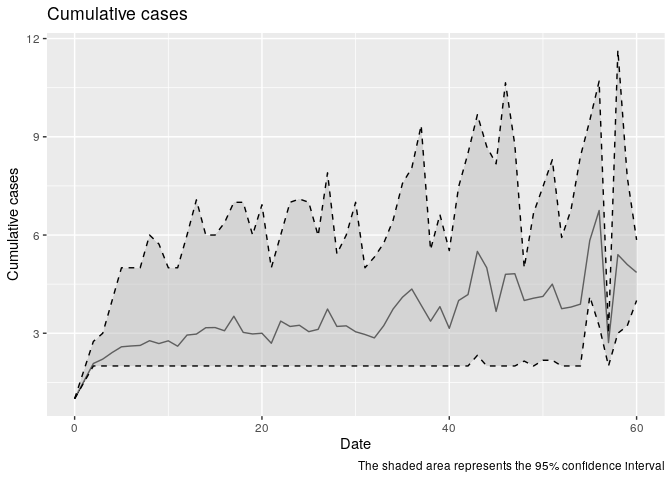
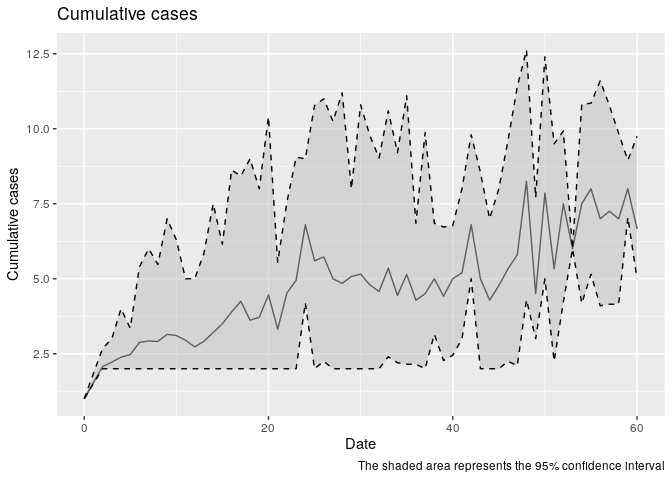
Seems to be working now. Need to check with all the other models.

diff --git a/school_quarantine/school_quarantine.hpp b/school_quarantine/school_quarantine.hpp
@@ -540,7 +540,7 @@ inline ModelSchoolQuarantine::ModelSchoolQuarantine(
     model.add_state("Quarantined Exposed", update_quarantined_exposed);
     model.add_state("Quarantined Susceptible", update_quarantined_susceptible);
     model.add_state("Quarantined Infectious", update_quanrantined_prodromal);
-    model.add_state("Quarantined Recovered", update_quarantined_exposed);
+    model.add_state("Quarantined Recovered", update_quarantined_recovered);
     model.add_state("Hospitalized", update_hospitalized);
     model.add_state("Recovered");
 

diff --git a/school_quarantine/school_quarantine.cpp b/school_quarantine/school_quarantine.cpp
@@ -6,8 +6,8 @@
 int main(int argc, char *argv[]) {
 
     // Passing the single argument to this function
-    std::string fn      = "new_bridge_88_params.yaml";
-    std::string out_dir = "new_bridge_88";
+    std::string fn      = "new_bridge_88_npi_params.yaml";
+    std::string out_dir = "new_bridge_88_npi";
     if (argc != 3 && argc != 1) {
         std::cerr << "Usage: " << argv[0] << " <filename> <outdir>" << std::endl;
         return 1;

diff --git a/school_quarantine/new_bridge_88_npi.md b/school_quarantine/new_bridge_88_npi.md
@@ -39,7 +39,7 @@ The following is a raw list of the parameters included in the model:
 |:----------------------|------:|:--------------------------------------------------------------------|
 | Contact rate          |  2.38 | Negative binomial. Calibrated using R0=15 as a reference.           |
 | Incubation period     | 12.00 | Geometric + 1. Ref.: Jones and Baranowski (2019)                    |
-| Days undetected      |  2.00 | Fixed value.                                                        |
+| Days undetected       |  2.00 | Fixed value.                                                        |
 | Prodromal period      |  3.00 | Geometric + 1. Ref.: Jones and Baranowski (2019)                    |
 | Quarantine days       | 21.00 | Utah Measles Disease Plan (“Measles Disease Plan” 2019).            |
 | Rash period           |  4.00 | Geometric + 1. Ref.: “Measles Disease Plan” (2019).                 |
@@ -57,8 +57,8 @@ This model simulates the spread of measles in a highschool. The
 highschool has students, and the simulation runs for days with one index
 case. The following is the output from the highschool model:
 
-    Using file: /tmp/RtmpXculjn/fileed4e8b79a0.yaml
-    Starting multiple runs (2000) using 10 thread(s)
+    Using file: new_bridge_88_npi_params.yaml
+    Starting multiple runs (500) using 10 thread(s)
     _________________________________________________________________________
     _________________________________________________________________________
     ||||||||||||||||||||||||||||||||||||||||||||||||||||||||||||||||||||||||| done.
@@ -72,10 +72,10 @@ case. The following is the output from the highschool model:
     Number of entities  : 0
     Days (duration)     : 60 (of 60)
     Number of viruses   : 1
-    Last run elapsed t  : 0.00s
-    Total elapsed t     : 1.00s (2000 runs)
-    Last run speed      : 6.06 million agents x day / second
-    Average run speed   : 53.16 million agents x day / second
+    Last run elapsed t  : 6.00ms
+    Total elapsed t     : 376.00ms (500 runs)
+    Last run speed      : 5.31 million agents x day / second
+    Average run speed   : 48.98 million agents x day / second
     Rewiring            : off
 
     Global events:
@@ -88,15 +88,15 @@ case. The following is the output from the highschool model:
      - Vaccine
 
     Model parameters:
-     - 1/Rash period          : 0.2500
      - Contact rate           : 2.3810
-     - Hospitalization days   : 2.0000
-     - Hospitalization rate   : 7.0000
+     - Days undetected        : 2.0000
+     - Hospitalization days   : 7.0000
+     - Hospitalization rate   : 0.2000
      - Incubation period      : 12.0000
-     - Days undetected       : 0.2000
      - Prodromal period       : 3.0000
      - Quarantine days        : 21.0000
      - Quarantine willingness : 1.0000
+     - Rash days              : 4.0000
      - Transmission rate      : 0.9000
      - Vaccination rate       : 0.8800
      - Vax efficacy           : 0.9900
@@ -111,20 +111,22 @@ case. The following is the output from the highschool model:
       - ( 5) Quarantined Exposed     :   0 -> 0
       - ( 6) Quarantined Susceptible :   0 -> 0
       - ( 7) Quarantined Infectious  :   0 -> 0
-      - ( 8) Hospitalized            :   0 -> 0
-      - ( 9) Recovered               :   0 -> 1
+      - ( 8) Quarantined Recovered   :   0 -> 0
+      - ( 9) Hospitalized            :   0 -> 0
+      - (10) Recovered               :   0 -> 1
 
     Transition Probabilities:
-     - Susceptible              1.00  0.00  0.00  0.00  0.00  0.00  0.00  0.00  0.00  0.00
-     - Exposed                  0.00  0.50  0.50  0.00  0.00  0.00  0.00  0.00  0.00  0.00
-     - Prodromal                0.00  0.00  0.00  1.00  0.00  0.00  0.00  0.00  0.00  0.00
-     - Rash                     0.00  0.00  0.00  0.00  0.00  0.00  0.00  0.00  1.00  0.00
-     - Isolated                    -     -     -     -     -     -     -     -     -     -
-     - Quarantined Exposed         -     -     -     -     -     -     -     -     -     -
-     - Quarantined Susceptible  0.05  0.00  0.00  0.00  0.00  0.00  0.95  0.00  0.00  0.00
-     - Quarantined Infectious      -     -     -     -     -     -     -     -     -     -
-     - Hospitalized             0.00  0.00  0.00  0.00  0.00  0.00  0.00  0.00  0.00  1.00
-     - Recovered                0.00  0.00  0.00  0.00  0.00  0.00  0.00  0.00  0.00  1.00
+     - Susceptible              1.00  0.00  0.00  0.00  0.00  0.00  0.00  0.00  0.00  0.00  0.00
+     - Exposed                  0.00  0.86  0.14  0.00  0.00  0.00  0.00  0.00  0.00  0.00  0.00
+     - Prodromal                0.00  0.00  0.67  0.33  0.00  0.00  0.00  0.00  0.00  0.00  0.00
+     - Rash                     0.00  0.00  0.00  0.00  0.00  0.00  0.00  0.00  0.00  0.00  1.00
+     - Isolated                    -     -     -     -     -     -     -     -     -     -     -
+     - Quarantined Exposed         -     -     -     -     -     -     -     -     -     -     -
+     - Quarantined Susceptible     -     -     -     -     -     -     -     -     -     -     -
+     - Quarantined Infectious      -     -     -     -     -     -     -     -     -     -     -
+     - Quarantined Recovered       -     -     -     -     -     -     -     -     -     -     -
+     - Hospitalized                -     -     -     -     -     -     -     -     -     -     -
+     - Recovered                0.00  0.00  0.00  0.00  0.00  0.00  0.00  0.00  0.00  0.00  1.00
 
 ## Flowchart
 
@@ -139,26 +141,33 @@ flowchart LR
     s3[Prodromal]
     s4[Quarantined Exposed]
     s5[Quarantined Infectious]
-    s6[Quarantined Susceptible]
-    s7[Rash]
-    s8[Recovered]
-    s9[Susceptible]
-    s0 -->|0.078543| s3
-    s0 -->|0.043862| s4
-    s0 -->|0.004023| s5
-    s1 -->|0.511491| s8
-    s2 -->|1.000000| s1
-    s3 -->|0.007460| s2
-    s3 -->|0.013480| s5
-    s3 -->|0.317629| s7
-    s4 -->|0.087541| s5
-    s5 -->|0.333762| s2
-    s5 -->|0.037146| s3
-    s6 -->|0.043473| s9
-    s7 -->|1.000000| s1
-    s9 -->|0.000055| s0
-    s9 -->|0.000008| s4
-    s9 -->|0.002282| s6
+    s6[Quarantined Recovered]
+    s7[Quarantined Susceptible]
+    s8[Rash]
+    s9[Recovered]
+    s10[Susceptible]
+    s0 -->|0.078167| s3
+    s0 -->|0.029919| s4
+    s0 -->|0.004223| s5
+    s1 -->|0.152144| s9
+    s2 -->|0.156662| s1
+    s2 -->|0.620791| s9
+    s3 -->|0.010093| s2
+    s3 -->|0.020187| s5
+    s3 -->|0.318131| s8
+    s4 -->|0.009920| s3
+    s4 -->|0.069636| s5
+    s5 -->|0.323911| s2
+    s5 -->|0.013751| s3
+    s6 -->|0.042129| s9
+    s7 -->|0.042717| s10
+    s8 -->|0.132771| s1
+    s8 -->|0.097998| s2
+    s8 -->|0.322445| s6
+    s8 -->|0.339305| s9
+    s10 -->|0.000071| s0
+    s10 -->|0.000008| s4
+    s10 -->|0.001674| s7
 
 ```
 
@@ -168,14 +177,14 @@ Estimating the outbreak size:
 
 |   Size | Probability    | Likely size (if \> Size) |
 |-------:|:---------------|:-------------------------|
-|  2.000 | 0.60           | \[2.00, 7.00\]           |
-|  5.000 | 0.08           | \[5.00, 9.00\]           |
-| 10.000 | \< 0.01        | \[10.00, 12.85\]         |
+|  2.000 | 0.59           | \[2.00, 10.00\]          |
+|  5.000 | 0.16           | \[5.00, 12.00\]          |
+| 10.000 | 0.02           | \[10.00, 12.72\]         |
 | 20.000 | \< 0.01        | \-                       |
-|  2.000 | Median (50%\>) | \[ 3 , 8 \]              |
-|  2.255 | Mean (average) | \[ 3 , 8 \]              |
+|  2.000 | Median (50%\>) | \[ 3 , 11.425 \]         |
+|  2.686 | Mean (average) | \[ 3 , 11.425 \]         |
 
-Likely sizes of the outbreak based on 2000 simulations.
+Likely sizes of the outbreak based on 500 simulations.
 
 ![](new_bridge_88_npi_files/figure-commonmark/print-histogram-1.png)
 
@@ -194,7 +203,7 @@ transitions:
 
 ![](new_bridge_88_npi_files/figure-commonmark/reproductive-number-1.png)
 
-    Mean R0:1.081
+    Mean R0:1.042
 
     Median R0:1
 
